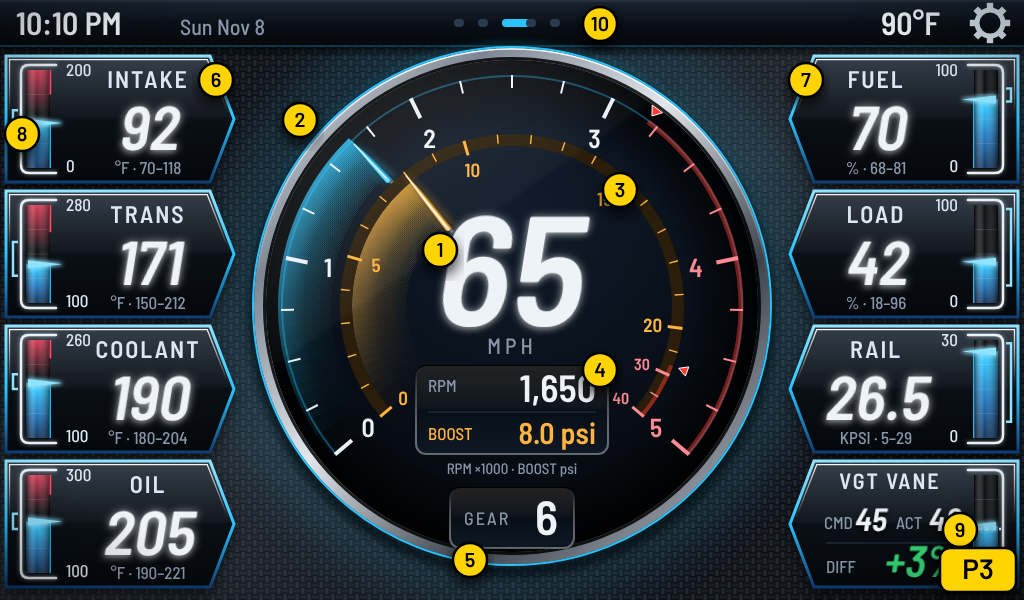
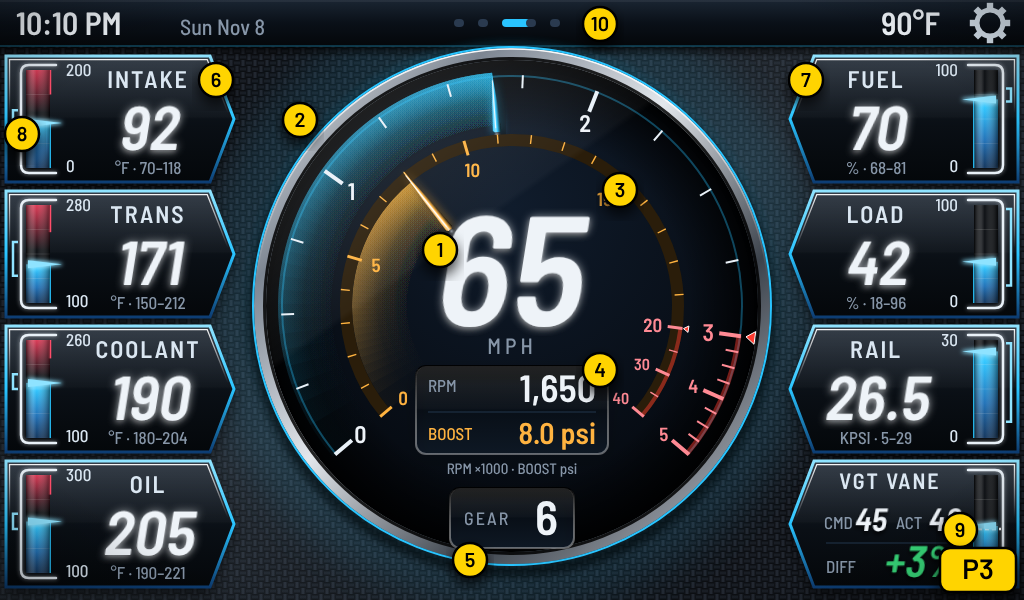
Mockups v2: P3 RPM scale 0-3000 on 7/8 of the sweep, limits 3,000 rpm and 20 psi
Claude-Session: https://claude.ai/code/session_01NB1fkpFcGY28RY4JZ8NWPC

diff --git a/docs/mockups/v2.html b/docs/mockups/v2.html
@@ -290,7 +290,7 @@ pages.classic_trend=()=>{let o=`<rect width="1024" height="600" fill="#0d0d0f"/>
 
 // Premium Towing: aftermarket diesel-monitor look (carbon, segmented EGT arc, side data panels)
 pages.premium_towing=()=>{const CX=512,CY=306,RD=246;
-  const rpm=+(q.get('rpm')||V.rpm),bst=+(q.get('boost')||V.boost),RMAX=+(q.get('rmax')||3200),BMAX=+(q.get('bmax')||28),rHot=rpm>=RMAX,bHot=bst>=BMAX,OFF=q.get('blink')==='0';
+  const rpm=+(q.get('rpm')||V.rpm),bst=+(q.get('boost')||V.boost),RMAX=+(q.get('rmax')||3000),BMAX=+(q.get('bmax')||20),rHot=rpm>=RMAX,bHot=bst>=BMAX,OFF=q.get('blink')==='0';
   const hotC=on=>on&&OFF?'#5a1a20':C.red;
   const ACCS={cyan:['#29c4ff','#8fe3ff','#1b78c8','#0d3d73','#5fd4ff'],green:['#2fe37a','#9dffc4','#169a4e','#0a4424','#6af2a2'],
     orange:['#ff8a1e','#ffc48a','#c4560a','#5a2604','#ffab5c'],red:['#ff3b4f','#ff9aa5','#b0182a','#4d0912','#ff6b7a'],
@@ -327,14 +327,14 @@ pages.premium_towing=()=>{const CX=512,CY=306,RD=246;
   o+=`<circle cx="${CX}" cy="${CY}" r="${RD+14}" fill="none" stroke="${CY2}" stroke-width="3" opacity=".5" filter="url(#glowU)"/><circle cx="${CX}" cy="${CY}" r="${RD}" fill="url(#face)"/><circle cx="${CX}" cy="${CY}" r="${RD}" fill="url(#faceIn)"/>`+bezel(CX,CY,RD+6,12)+`<circle cx="${CX}" cy="${CY}" r="${RD+13}" fill="none" stroke="${CY2}" stroke-width="2"/>`;
   const A0=140,SW=260;
   // light trails behind both needles (drawn on the face, under the scales)
+  const RO=220,ar=v=>A0+SW*(v<=3?.875*v/3:.875+.125*(Math.min(v,5)-3)/2);
   const RI=166,ab=v=>A0+SW*(v<=20?.875*v/20:.875+.125*(Math.min(v,40)-20)/20);
-  o+=trail(176,RD-12,A0,A0+SW*rpm/5000,rHot?C.red:ACC[0],rHot?(OFF?.12:.95):.75,'trO')+trail(100,160,A0,ab(bst),bHot?C.red:SEC,bHot?(OFF?.12:.95):.7,'trI');
+  o+=trail(176,RD-12,A0,ar(rpm/1000),rHot?C.red:ACC[0],rHot?(OFF?.12:.95):.75,'trO')+trail(100,160,A0,ab(bst),bHot?C.red:SEC,bHot?(OFF?.12:.95):.7,'trI');
   // outer scale: RPM with a needle
-  const RO=220,ar=v=>A0+SW*v/5;
   o+=`<path d="${arc(CX,CY,RO+10,A0,A0+SW)}" stroke="${ACC[0]}" stroke-opacity=".35" stroke-width="2" fill="none"/>`;
   o+=`<path d="${arc(CX,CY,RO+9,ar(RMAX/1000),ar(5))}" stroke="${C.red}" stroke-width="5" fill="none" opacity=".45"/>`;
   for(let v=0;v<=5;v+=.25){const maj=v%1==0,[x1,y1]=P(CX,CY,RO+11,ar(v)),[x2,y2]=P(CX,CY,RO-(maj?11:2),ar(v));o+=`<line x1="${n1(x1)}" y1="${n1(y1)}" x2="${n1(x2)}" y2="${n1(y2)}" stroke="${v*1000>=RMAX?'#ff8a94':'#e9f1f8'}" stroke-width="${maj?4:2}"/>`}
-  for(let v=0;v<=5;v++){const[x,y]=P(CX,CY,RO-32,ar(v));o+=T(x,y,26,v,{db:'central',c:v*1000>=RMAX?'#ff8a94':C.text,f:'C6'})}
+  for(let v=0;v<=5;v++){const[x,y]=P(CX,CY,RO-22,ar(v));o+=T(x,y,v>3?19:24,v,{db:'central',c:v*1000>=RMAX?'#ff8a94':C.text,f:'C6'})}
   let WD=0;function wedge(r0,r1,an,w,col,lite){const id='wd'+(WD++),[bx1,by1]=P(CX,CY,r0,an-w),[bx2,by2]=P(CX,CY,r0,an+w),[tx,ty]=P(CX,CY,r1,an);
     const[qx,qy]=P(CX,CY,r0-5,an),[s1x,s1y]=P(CX,CY,r0+(r1-r0)*.5,an-w*.62),[s2x,s2y]=P(CX,CY,r0+(r1-r0)*.5,an+w*.62),[hx0,hy0]=P(CX,CY,r0+3,an-w*.25),[hx1,hy1]=P(CX,CY,r1-6,an-w*.08);
     const d=`M${n1(bx1)},${n1(by1)} Q${n1(s1x)},${n1(s1y)} ${n1(tx)},${n1(ty)} Q${n1(s2x)},${n1(s2y)} ${n1(bx2)},${n1(by2)} Q${n1(qx)},${n1(qy)} ${n1(bx1)},${n1(by1)} Z`;
@@ -342,7 +342,7 @@ pages.premium_towing=()=>{const CX=512,CY=306,RD=246;
       `<path d="${d}" fill="${col}" opacity=".7" filter="url(#glowU)"/><path d="${d}" fill="url(#${id})" filter="url(#nshadow)"/>`+
       `<line x1="${n1(hx0)}" y1="${n1(hy0)}" x2="${n1(hx1)}" y2="${n1(hy1)}" stroke="#fff" stroke-opacity=".75" stroke-width="1.1" stroke-linecap="round"/>`+
       `<circle cx="${n1(qx)}" cy="${n1(qy)}" r="${(w*r0*Math.PI/180*.9).toFixed(1)}" fill="url(#hub)" opacity=".9"/>`}
-  function limitMark(r,an,out){const[x0,y0]=P(CX,CY,r+(out?13:-13),an),[x1,y1]=P(CX,CY,r+(out?4:-4),an),[a1,b1]=P(CX,CY,r+(out?13:-13),an-1.5),[a2,b2]=P(CX,CY,r+(out?13:-13),an+1.5);
+  function limitMark(r,an,out,sz=13){const[x1,y1]=P(CX,CY,r+(out?4:-4),an),[a1,b1]=P(CX,CY,r+(out?sz:-sz),an-1.5*sz/13),[a2,b2]=P(CX,CY,r+(out?sz:-sz),an+1.5*sz/13);
     return `<polygon points="${n1(a1)},${n1(b1)} ${n1(x1)},${n1(y1)} ${n1(a2)},${n1(b2)}" fill="${C.red}" stroke="#fff" stroke-width="1"/>`}
   o+=limitMark(RO+12,ar(RMAX/1000),true);
   o+=wedge(176,RO+12,ar(rpm/1000),1.35,rHot?hotC(1):ACC[0],rHot?(OFF?'#5a1a20':'#ffd0d4'):ACC[1]);
@@ -352,7 +352,7 @@ pages.premium_towing=()=>{const CX=512,CY=306,RD=246;
   {const tk=[];for(let v=0;v<=20;v+=1)tk.push([v,v%5==0]);[25,30,35,40].forEach(v=>tk.push([v,v==30||v==40]));
    tk.forEach(([v,maj])=>{const[x1,y1]=P(CX,CY,RI+6,ab(v)),[x2,y2]=P(CX,CY,RI-(maj?9:3),ab(v));o+=`<line x1="${n1(x1)}" y1="${n1(y1)}" x2="${n1(x2)}" y2="${n1(y2)}" stroke="${v>=BMAX?'#ff8a94':SEC}" stroke-width="${maj?3:1.4}"/>`});
    [0,5,10,15,20,30,40].forEach(v=>{const[x,y]=P(CX,CY,RI-24,ab(v));o+=T(x,y,v>20?16:19,v,{db:'central',c:v>=BMAX?'#ff8a94':SEC,f:'C6'})});}
-  o+=limitMark(RI+8,ab(BMAX),true);
+  o+=limitMark(RI+3,ab(BMAX),true,9);
   o+=wedge(100,RI+8,ab(bst),2.1,bHot?hotC(1):SEC,bHot?(OFF?'#5a1a20':'#ffd0d4'):'#fff3d6');
   // speed, big; RPM digits with boost under them
   o+=sk(CX-6,CY+20,156,V.mph)+T(CX,CY+48,22,'MPH',{c:C.dim,ls:4,f:'C5'});

diff --git a/docs/mockups/v2/KEY.md b/docs/mockups/v2/KEY.md
@@ -7,7 +7,7 @@ renders are in `numbered/`.
 |---|---|
 | **P1** Premium Daily | 1 tach that wraps into the top bar · 2 gear dial · 3 center card (boost/trans/MPG) · 4 speedo · 5 odometer · 6 coolant · 7 fuel % and range · 8 clock/date bar |
 | **P2** Premium Sport | 1 big center tach · 2 speed · 3 gear · 4 red-zone glow · 5 coolant bar · 6 trans bar · 7 boost bar · 8 oil bar |
-| **P3** Premium Towing (rev 3) | 1 speed (big, center) · 2 slim rounded 3D RPM pointer across the light trail (shaded like a polished needle, cap at the base, point at the rim) with a light trail (lit wedge on the face from 0 to the pointer) · 3 slim boost pointer across its trail on the inner scale (0–20 psi uses 7/8 of the sweep, 20–40 the last 1/8) with its own light trail. Each has a user alarm limit (small red marker outside its scale, pointing in; a thin soft red line from there up); at or above it the whole trail, the pointer and the digits turn red (`premium_towing_alarm.png`, limits popup `premium_towing_limits.png`) · 4 RPM digits with boost under them · 5 gear (bottom of the circle) · 6 left panels (intake/trans/coolant/oil) · 7 right panels (fuel/load/rail/VGT) · 8 premium vertical bars: outline frame, red zone fading down, fill fading down from a bright top edge, pointer at now, scale min/max, this drive's min–max bracket (also under the value) · 9 VGT vane: CMD, ACT and DIFF (amber at 5%, red at 10%) · 10 top bar: time, date, page dots, outside temp, settings |
+| **P3** Premium Towing (rev 3) | 1 speed (big, center) · 2 slim rounded 3D RPM pointer across the light trail (0–3,000 rpm uses 7/8 of the sweep, 3,000–5,000 the last 1/8) (shaded like a polished needle, cap at the base, point at the rim) with a light trail (lit wedge on the face from 0 to the pointer) · 3 slim boost pointer across its trail on the inner scale (0–20 psi uses 7/8 of the sweep, 20–40 the last 1/8) with its own light trail. Each has a user alarm limit (defaults: 3,000 rpm and 20 psi, right at each scale's split) (small red marker outside its scale, pointing in; a thin soft red line from there up); at or above it the whole trail, the pointer and the digits turn red (`premium_towing_alarm.png`, limits popup `premium_towing_limits.png`) · 4 RPM digits with boost under them · 5 gear (bottom of the circle) · 6 left panels (intake/trans/coolant/oil) · 7 right panels (fuel/load/rail/VGT) · 8 premium vertical bars: outline frame, red zone fading down, fill fading down from a bright top edge, pointer at now, scale min/max, this drive's min–max bracket (also under the value) · 9 VGT vane: CMD, ACT and DIFF (amber at 5%, red at 10%) · 10 top bar: time, date, page dots, outside temp, settings |
 | **P4** Premium Economy | 1 open-arc tach · 2 speed · 3 gear · 4 fuel bar · 5 fuel % and range · 6 trip/tank boxes · 7 MPG bar with tank-avg marker · 8 MPG now/trip/last 10 · 9 telltales |
 | **P5** Premium Trend | 1 channel list · 2 live values · 3 chart · 4 tap cursor · 5 min/avg/max · 6 time window buttons |
 | **C1** Classic Daily | 1 digital speed/gear window · 2 sweep speedo · 3 odometer · 4 round tach · 5 temp/trans window · 6 boost/fuel window · 7 clock |
